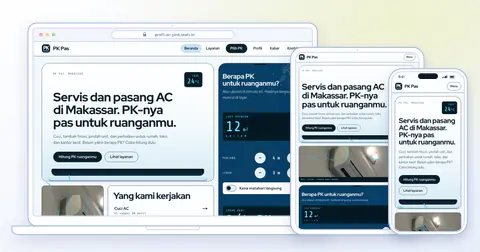
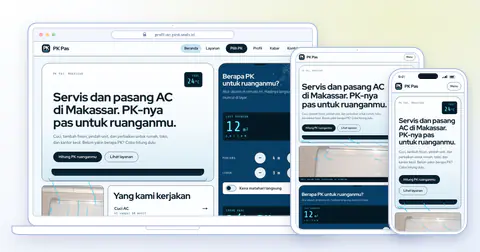
Thumbnail PK Pas diambil ulang (foto unit dalam yang baru), THUMB_V 20261104; FAQ Inggris memakai nama paket resmi Online Booking System

Changed region(s): [[0.625, 0.5556, 0.8125, 0.7222], [0.0625, 0.7222, 0.2188, 0.8611], [0.8125, 0.8333, 0.9688, 0.9167]]

diff --git a/app/content/business.ts b/app/content/business.ts
@@ -126,7 +126,7 @@ export const BIZ: Biz[] = [
         faq: [
           { q: 'What is the difference between a QR menu and a cafe website?', a: 'A QR menu is a menu page opened by scanning a code on the table. A cafe website can hold that menu plus your story, hours, map and promos. Both can be built in one Landing Page package.' },
           { q: 'If a menu price changes, do I have to ask PintuWeb?', a: 'Who updates the content is agreed during the consultation, depending on the package you choose. Tell us what you need and we will suggest the easiest way.' },
-          { q: 'Can the website take orders or bookings?', a: 'Bookings, yes. The Online Reservation System package includes table booking with confirmation by WhatsApp or email and an admin panel. Delivery ordering can be built as an app.' },
+          { q: 'Can the website take orders or bookings?', a: 'Bookings, yes. The Online Booking System package includes table booking with confirmation by WhatsApp or email and an admin panel. Delivery ordering can be built as an app.' },
         ],
         wa: 'Hello PintuWeb, I run a cafe/restaurant and would like to ask about a website (Website for Cafes & Restaurants page).',
       },
@@ -200,7 +200,7 @@ export const BIZ: Biz[] = [
           'standar-umkm': 'A 3–5 page website if a profile, services and contact are enough.',
         },
         faq: [
-          { q: 'Can the clinic staff manage the appointments?', a: 'Yes. The Online Reservation System package includes an admin panel for schedules and bookings, plus rules for opening hours and capacity.' },
+          { q: 'Can the clinic staff manage the appointments?', a: 'Yes. The Online Booking System package includes an admin panel for schedules and bookings, plus rules for opening hours and capacity.' },
           { q: 'Do patients need to create an account?', a: 'That can be set up to suit you. We talk through the flow in the consultation; in the demo, patients just pick a doctor and a time.' },
           { q: 'Is there a simpler website to start with?', a: 'Yes. The Small Business Standard package covers a clinic profile, a list of services and contact details. Appointments can be added later.' },
         ],
@@ -367,7 +367,7 @@ export const BIZ: Biz[] = [
         },
         faq: [
           { q: 'Can I add many listings myself?', a: 'Yes. The Property Website package includes an admin panel to manage listings, with SEO for each listing.' },
-          { q: 'What about a small guesthouse or homestay?', a: 'The Online Reservation System package fits: an availability calendar, price and capacity rules, and confirmation by WhatsApp or email. See also our article on tourism and homestay websites.' },
+          { q: 'What about a small guesthouse or homestay?', a: 'The Online Booking System package fits: an availability calendar, price and capacity rules, and confirmation by WhatsApp or email. See also our article on tourism and homestay websites.' },
           { q: 'Is there an app for boarding-house owners?', a: 'The Grendel Kos demo shows one: rent bills and damage reports. The features you need are discussed and go into the quote.' },
         ],
         wa: 'Hello PintuWeb, I run a rental/property/lodging business and would like to ask about a website (Website for Rentals, Property & Lodging page).',

diff --git a/app/lib/demos.ts b/app/lib/demos.ts
@@ -135,7 +135,7 @@ export const DEMOS: Demo[] = [
 
 /** Versi thumbnail public/demos: naikkan setiap kali thumbnail ditangkap ulang. Nama berkasnya tetap (<slug>.webp)
  *  sedangkan CDN & peramban menyimpannya 7 hari, jadi versi ini yang membuat tampilan baru langsung terlihat. */
-export const THUMB_V = '20261102'
+export const THUMB_V = '20261104'
 export const demoThumb = (slug: string) => `/demos/${slug}.webp?v=${THUMB_V}`
 export const demoImage = (d: Demo) => demoThumb(d.slug)
 
